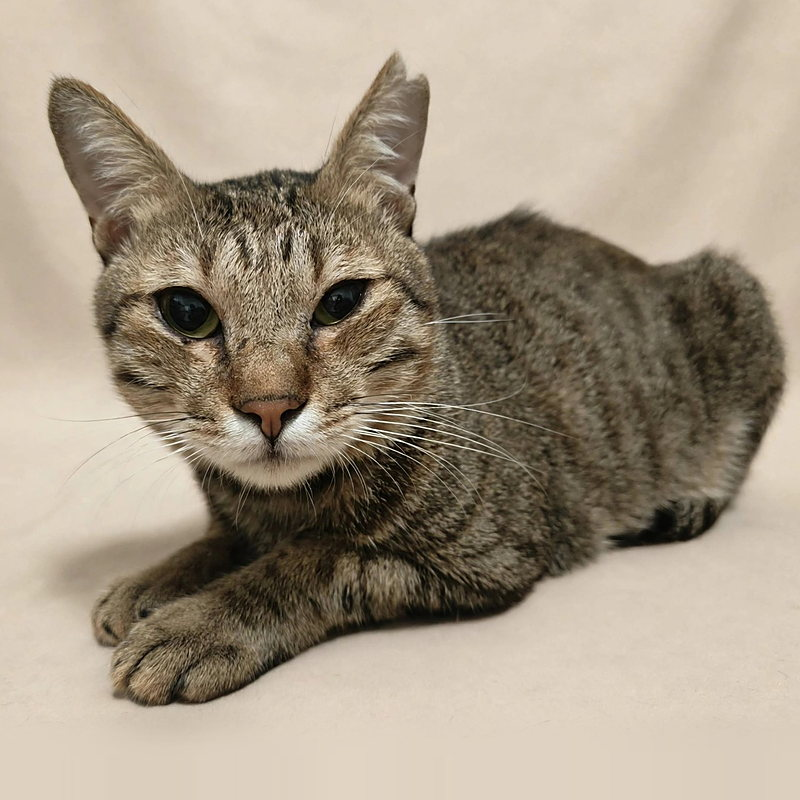
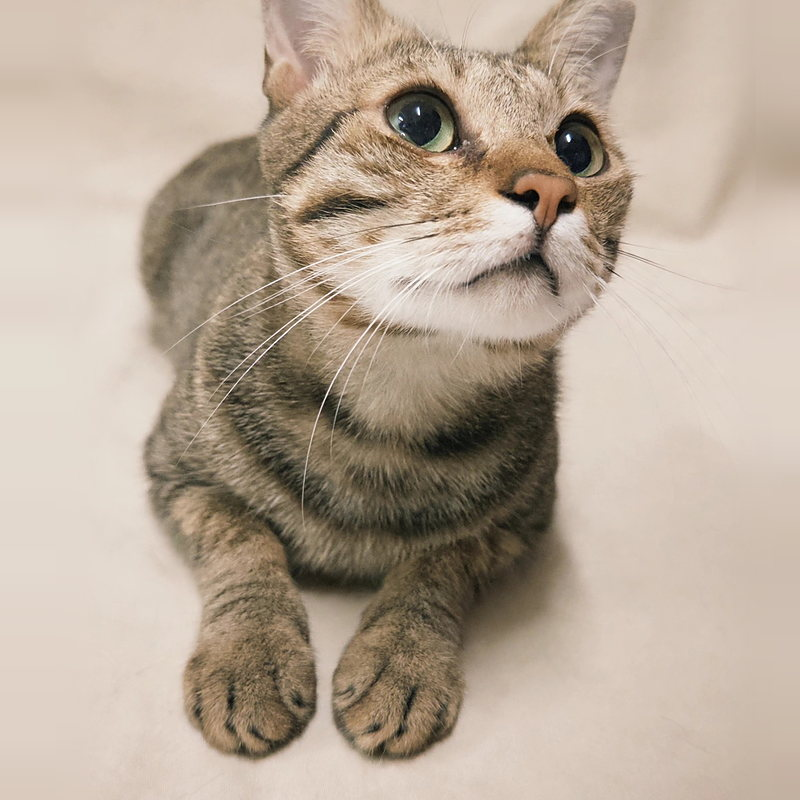
竹竹換首圖，並補成兩張
新的正面抬頭照放第一順位，原本的側躺照移到第二張（沒有刪）。

diff --git a/assets/site.js b/assets/site.js
@@ -68,7 +68,7 @@ var HERO_V = '?v=998d7668';
 // 貓咪照片的版本號。照片換新的時候檔名不變（cream-1.jpg 永遠叫 cream-1.jpg），
 // 沒有版本號的話，看過的人會一直看到瀏覽器快取裡的舊圖。
 // 數字一樣由 tools/更新版本號.py 自動換掉。
-var PHOTO_V = '?v=c6b6a179';
+var PHOTO_V = '?v=85ee5a15';
 // 手機版和電腦版的橫幅是兩張不同的圖，這裡記住現在是哪一種螢幕
 var heroWide = window.matchMedia('(min-width: 761px)');
 var _heroExt = null;

diff --git a/index.html b/index.html
@@ -192,10 +192,10 @@
   </div>
 </footer>
 
-<script src="data/cats.js?v=3bf586a0"></script>
+<script src="data/cats.js?v=60ae4989"></script>
 <script src="data/news.js?v=ffcb98d6"></script>
 <script src="data/tips.js?v=ef1ef5ad"></script>
 <script src="data/games.js?v=29ebe26f"></script>
-<script src="assets/site.js?v=c4ea07b9"></script>
+<script src="assets/site.js?v=79584524"></script>
 </body>
 </html>

diff --git a/tips.html b/tips.html
@@ -114,9 +114,9 @@
   </div>
 </footer>
 
-<script src="data/cats.js?v=3bf586a0"></script>
+<script src="data/cats.js?v=60ae4989"></script>
 <script src="data/tips.js?v=ef1ef5ad"></script>
 <script src="data/games.js?v=29ebe26f"></script>
-<script src="assets/site.js?v=c4ea07b9"></script>
+<script src="assets/site.js?v=79584524"></script>
 </body>
 </html>

diff --git a/data/cats.js b/data/cats.js
@@ -385,7 +385,7 @@ window.CAT_DATA = {
       "personality": "討喜圓臉，享受久摸，快樂翻滾",
       "health": "疫苗 ☑、節育 ☑",
       "story": "",
-      "photos": ["cats/zhuzhu-1.jpg"],
+      "photos": ["cats/zhuzhu-1.jpg", "cats/zhuzhu-2.jpg"],
       "video": "",
       "confirmed": "2026-10-30"
     },

diff --git a/games.html b/games.html
@@ -112,8 +112,8 @@
   </div>
 </footer>
 
-<script src="data/cats.js?v=3bf586a0"></script>
+<script src="data/cats.js?v=60ae4989"></script>
 <script src="data/games.js?v=29ebe26f"></script>
-<script src="assets/site.js?v=c4ea07b9"></script>
+<script src="assets/site.js?v=79584524"></script>
 </body>
 </html>

diff --git a/news.html b/news.html
@@ -104,8 +104,8 @@
   </div>
 </footer>
 
-<script src="data/cats.js?v=3bf586a0"></script>
+<script src="data/cats.js?v=60ae4989"></script>
 <script src="data/news.js?v=ffcb98d6"></script>
-<script src="assets/site.js?v=c4ea07b9"></script>
+<script src="assets/site.js?v=79584524"></script>
 </body>
 </html>

diff --git a/shop.html b/shop.html
@@ -163,8 +163,8 @@
   </div>
 </footer>
 
-<script src="data/cats.js?v=3bf586a0"></script>
+<script src="data/cats.js?v=60ae4989"></script>
 <script src="data/shop.js?v=de06280b"></script>
-<script src="assets/site.js?v=c4ea07b9"></script>
+<script src="assets/site.js?v=79584524"></script>
 </body>
 </html>

diff --git a/tip.html b/tip.html
@@ -94,8 +94,8 @@
   </div>
 </footer>
 
-<script src="data/cats.js?v=3bf586a0"></script>
+<script src="data/cats.js?v=60ae4989"></script>
 <script src="data/tips.js?v=ef1ef5ad"></script>
-<script src="assets/site.js?v=c4ea07b9"></script>
+<script src="assets/site.js?v=79584524"></script>
 </body>
 </html>

diff --git a/about.html b/about.html
@@ -155,7 +155,7 @@
   </div>
 </footer>
 
-<script src="data/cats.js?v=3bf586a0"></script>
-<script src="assets/site.js?v=c4ea07b9"></script>
+<script src="data/cats.js?v=60ae4989"></script>
+<script src="assets/site.js?v=79584524"></script>
 </body>
 </html>

diff --git a/adopt.html b/adopt.html
@@ -162,7 +162,7 @@
   </div>
 </footer>
 
-<script src="data/cats.js?v=3bf586a0"></script>
-<script src="assets/site.js?v=c4ea07b9"></script>
+<script src="data/cats.js?v=60ae4989"></script>
+<script src="assets/site.js?v=79584524"></script>
 </body>
 </html>

diff --git a/adopted.html b/adopted.html
@@ -111,7 +111,7 @@
   </div>
 </footer>
 
-<script src="data/cats.js?v=3bf586a0"></script>
-<script src="assets/site.js?v=c4ea07b9"></script>
+<script src="data/cats.js?v=60ae4989"></script>
+<script src="assets/site.js?v=79584524"></script>
 </body>
 </html>

diff --git a/cats.html b/cats.html
@@ -126,7 +126,7 @@
   </div>
 </footer>
 
-<script src="data/cats.js?v=3bf586a0"></script>
-<script src="assets/site.js?v=c4ea07b9"></script>
+<script src="data/cats.js?v=60ae4989"></script>
+<script src="assets/site.js?v=79584524"></script>
 </body>
 </html>
